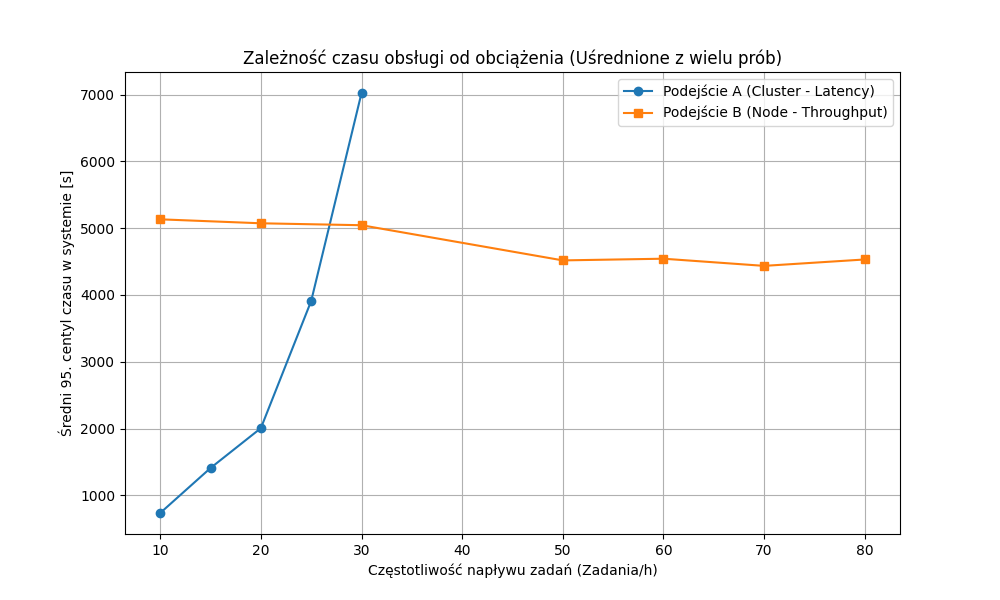
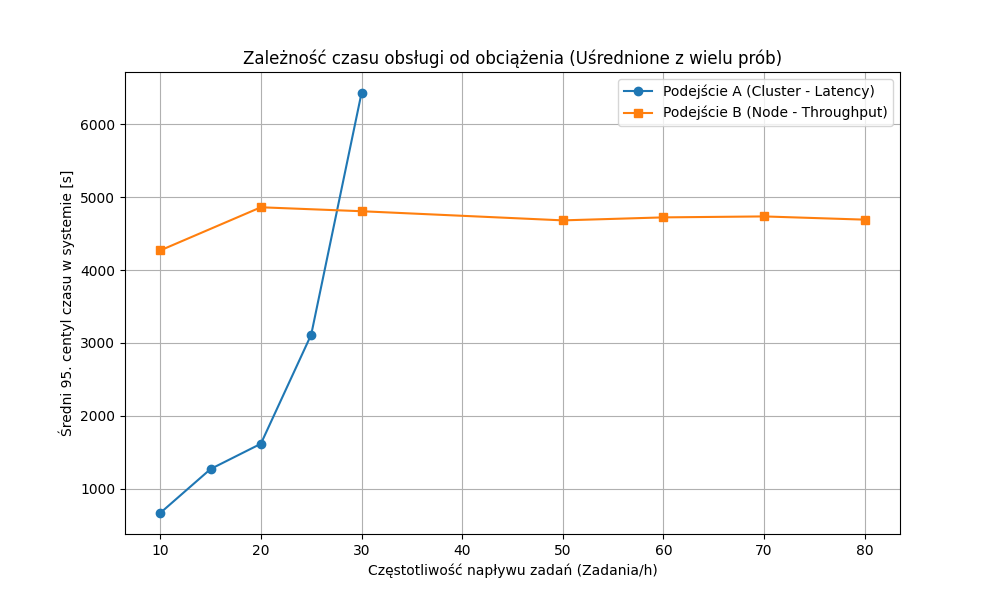
XD

diff --git a/python/results/charts.py b/python/results/charts.py
@@ -157,7 +157,7 @@ def analyze_and_plot():
     plt.legend()
     plt.grid(True)
 
-    output_filename = 'wykres_centyl_95_avg_arch.png'
+    output_filename = '../wykres_centyl_95_avg_arch.png'
     plt.savefig(output_filename)
     print(f"\nWykres zapisano jako: {output_filename}")
     # plt.show() # Odkomentuj jeśli uruchamiasz lokalnie z GUI
